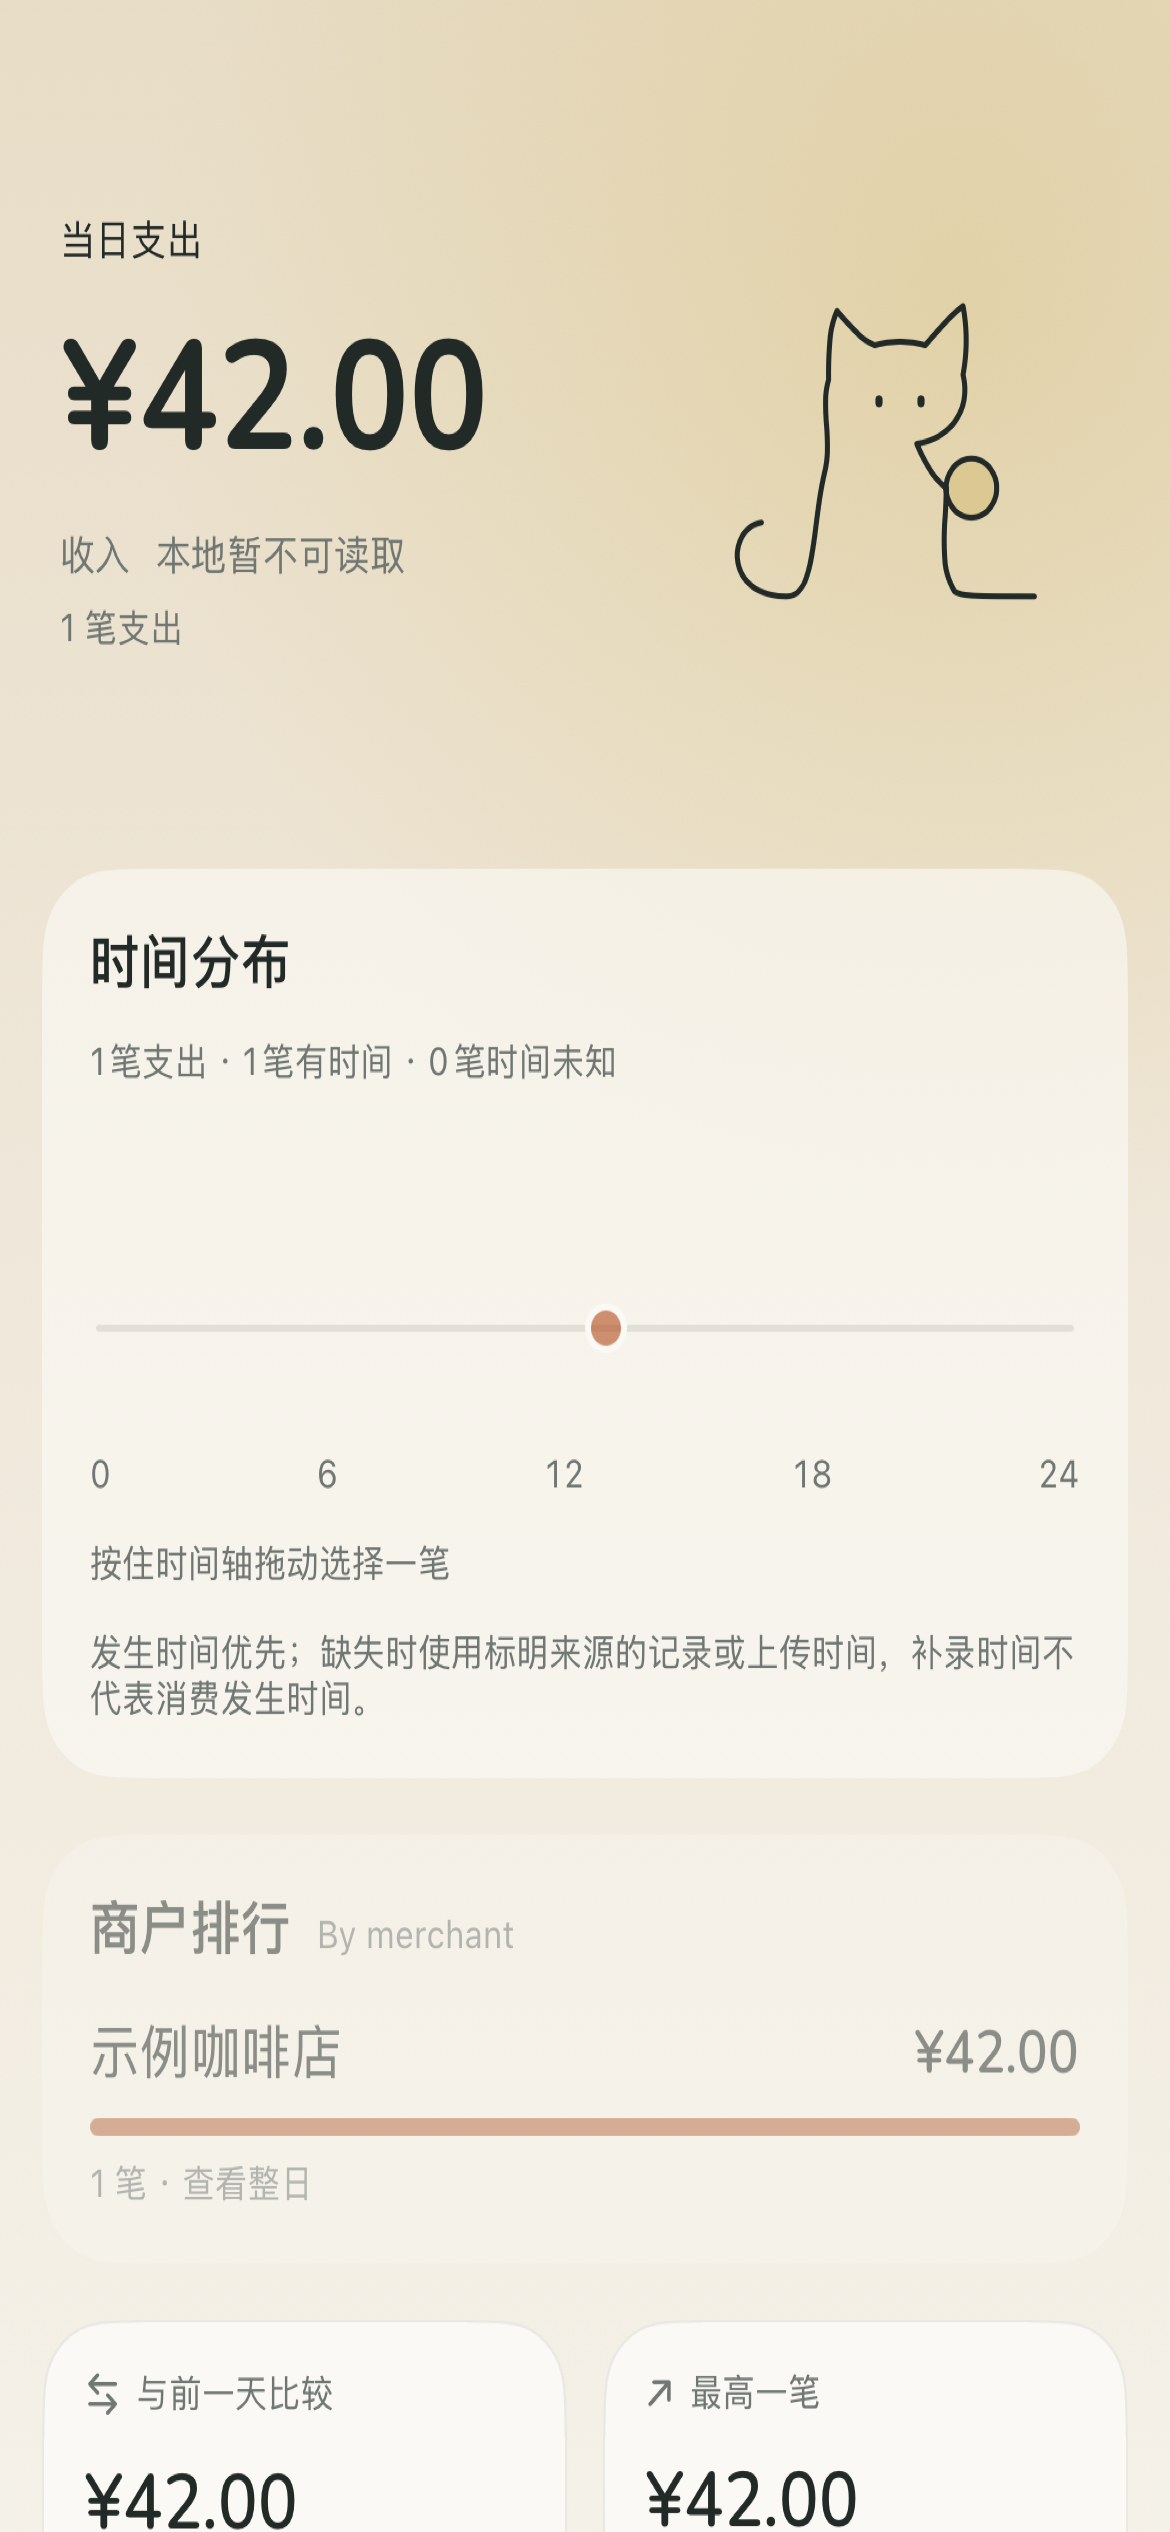
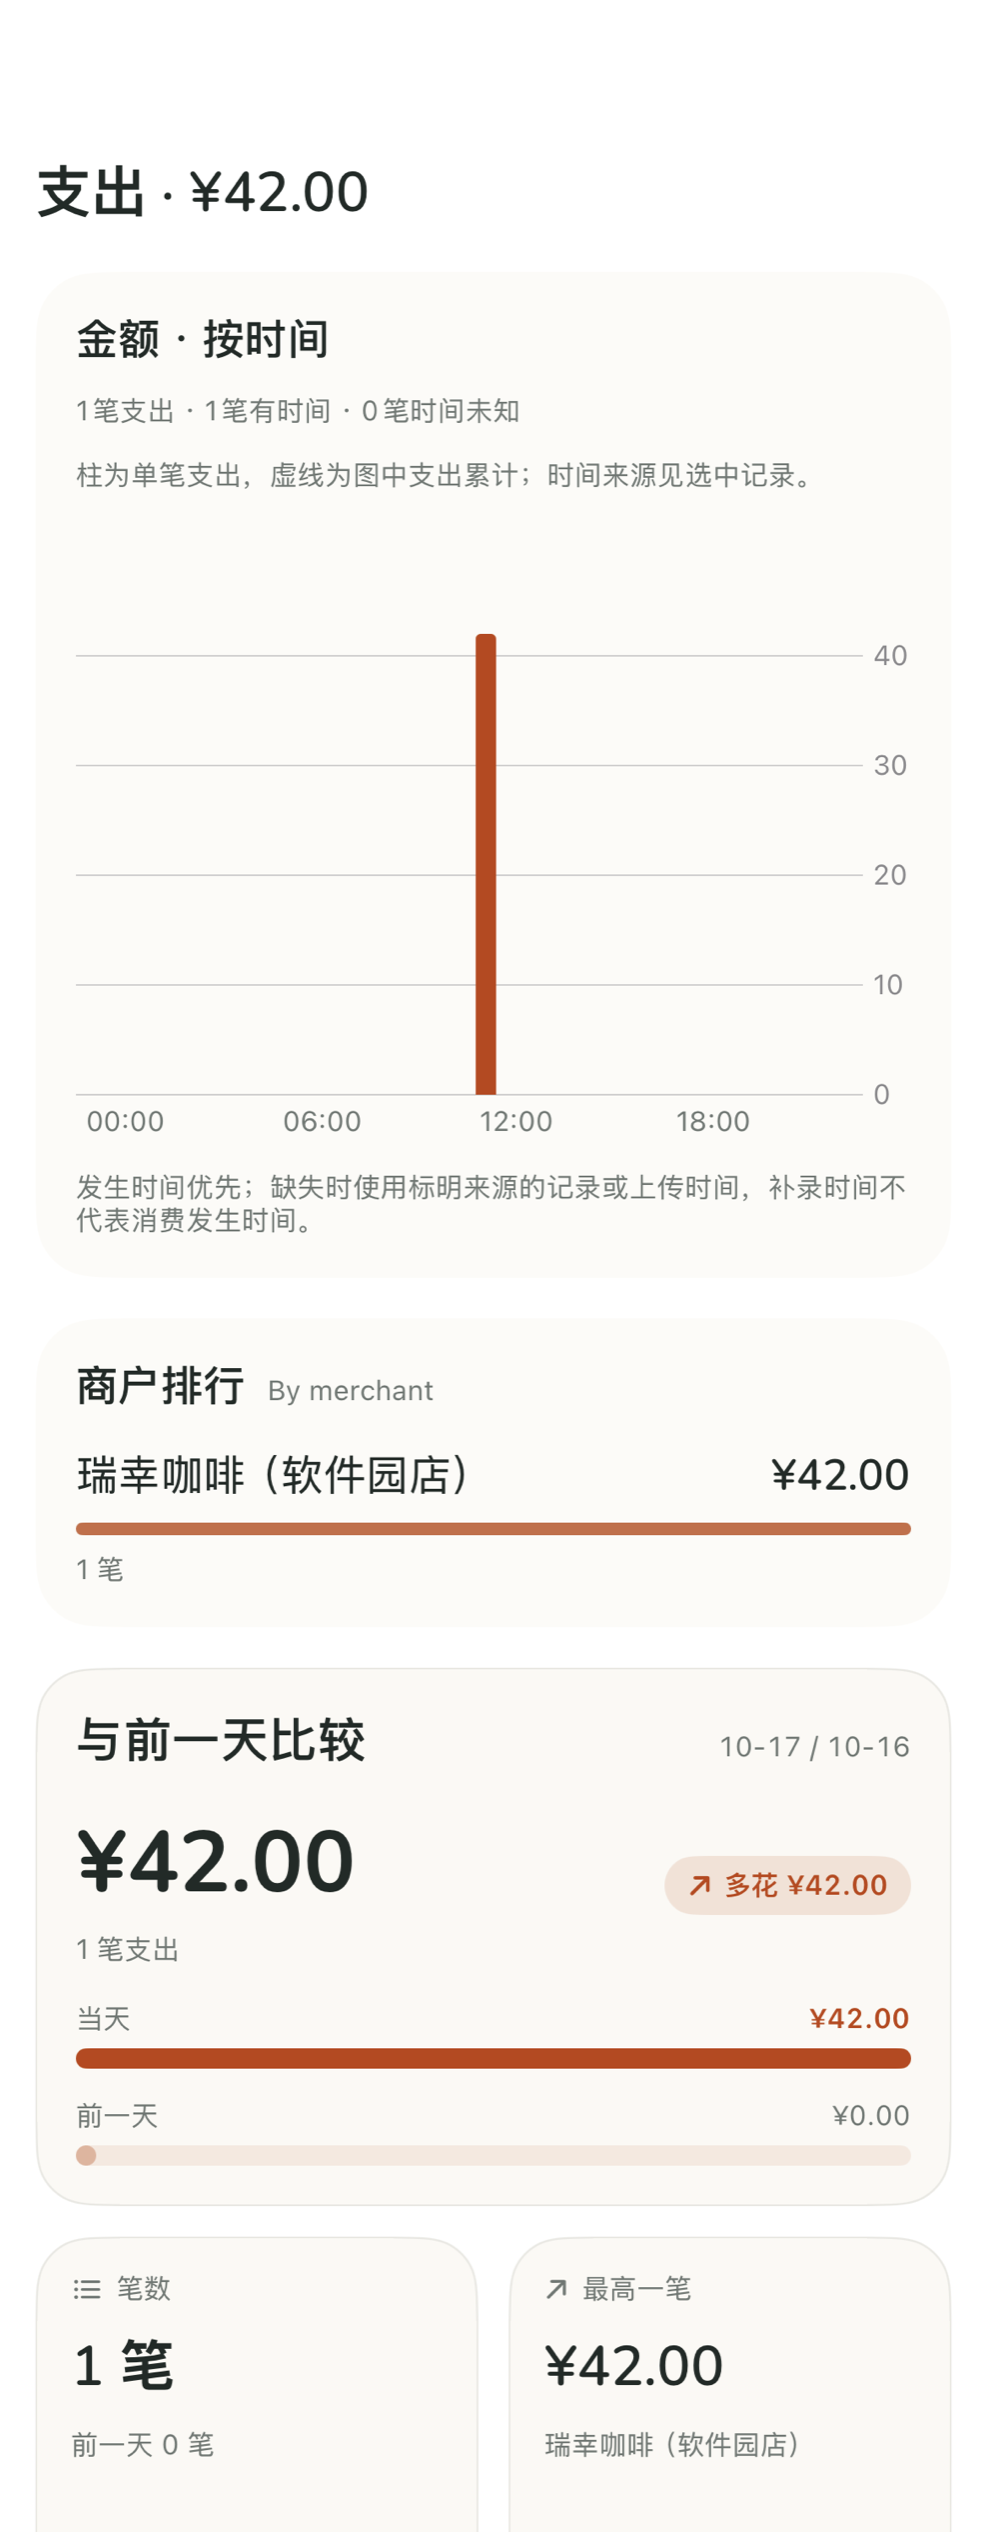
docs: enrich synthetic expense promo data

diff --git a/ios/SnapCountTests/IOSPrototypeRenderingTests.swift b/ios/SnapCountTests/IOSPrototypeRenderingTests.swift
@@ -121,16 +121,24 @@ final class IOSPrototypeRenderingTests: XCTestCase {
                 let record = NativeDayRecord(
                     id: "fixture-\(domain.rawValue)", reference: "fixture/\(domain.rawValue)",
                     dateKey: date, kind: NativeDayRecordKind(rawValue: domain.rawValue)!,
-                    domainKey: domain.rawValue, title: domain == .expense ? "示例咖啡店" : domain.title,
-                    subtitle: "", value: domain == .expense ? "¥42.00" : "",
+                    domainKey: domain.rawValue, title: domain == .expense ? "瑞幸咖啡（软件园店）" : domain.title,
+                    subtitle: domain == .expense ? "工作日午间 · 餐饮" : "", value: domain == .expense ? "¥42.00" : "",
                     timeLabel: "12:30", systemImage: domain.systemImage, status: "done"
                 )
                 let detail = NativeRecordDetail(
                     id: record.reference, rawId: record.id, kind: domain == .expense ? "expense" : "data",
-                    title: record.title, subtitle: "", value: record.value, detailRows: [], imageURL: nil,
+                    title: record.title, subtitle: record.subtitle, value: record.value,
+                    detailRows: domain == .expense ? [
+                        NativeDetailRow(label: "消费分类", value: "餐饮美食"),
+                        NativeDetailRow(label: "支付方式", value: "微信支付"),
+                        NativeDetailRow(label: "记录来源", value: "截图识别")
+                    ] : [], imageURL: nil,
                     imageLoadError: false, imagePath: nil, imageHash: nil,
                     amount: domain == .expense ? 42 : nil, merchantName: domain == .expense ? record.title : nil,
-                    platform: nil, category: nil, paymentMethod: nil, recordDate: date, note: nil,
+                    platform: domain == .expense ? "微信" : nil,
+                    category: domain == .expense ? "餐饮" : nil,
+                    paymentMethod: domain == .expense ? "微信支付" : nil, recordDate: date,
+                    note: domain == .expense ? "午休路过，少糖拿铁" : nil,
                     companionMessage: nil, accountId: nil, systemImage: domain.systemImage,
                     payload: [
                         "sleep_minutes": AnyCodable(480),
